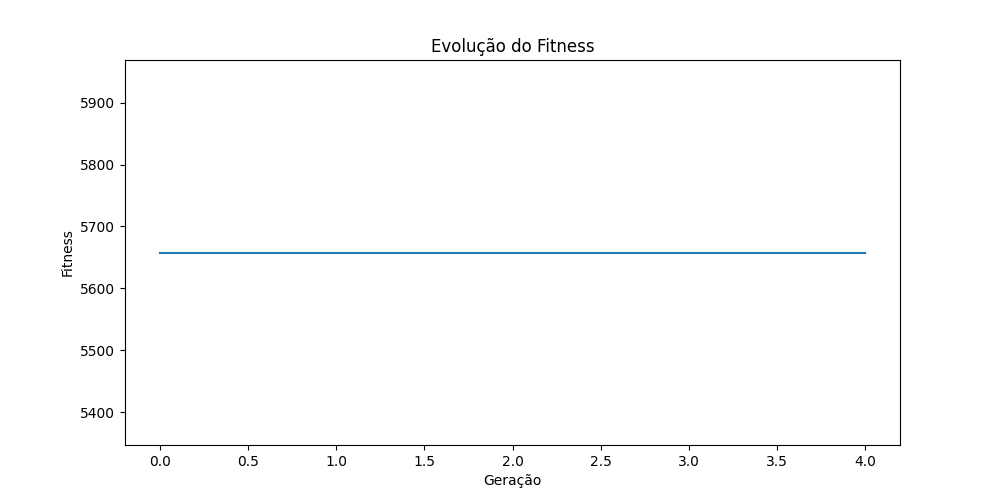
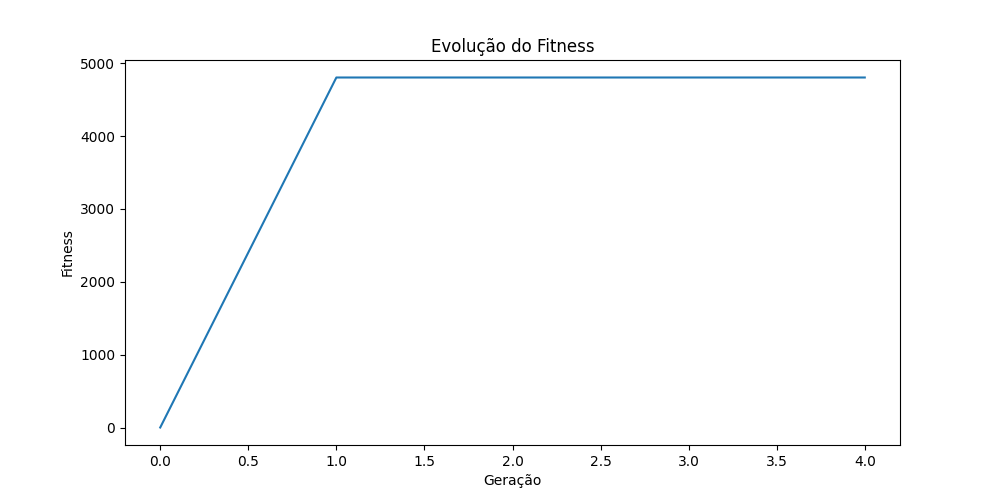
adicionando funções trigonométricas

diff --git a/robo_exercicio.py b/robo_exercicio.py
@@ -546,7 +546,7 @@ class IndividuoPG:
             return self.criar_folha()
         
         # OPERADORES DISPONÍVEIS PARA O ALUNO MODIFICAR
-        operador = random.choice(['+', '-', '*', '/', 'max', 'min', 'abs', 'if_positivo', 'if_negativo'])
+        operador = random.choice(['+', '-', '*', '/', 'max', 'min', 'abs', 'if_positivo', 'if_negativo', 'sin', 'cos', 'sigmoid'])
         if operador in ['+', '-', '*', '/']:
             return {
                 'tipo': 'operador',
@@ -568,13 +568,17 @@ class IndividuoPG:
                 'esquerda': IndividuoPG(self.profundidade - 1).arvore_aceleracao,
                 'direita': None
             }
-        else:  # if_positivo ou if_negativo
+        else:  # if_positivo ou if_negativo, sin, cos, sigmoid
             return {
                 'tipo': 'operador',
                 'operador': operador,
                 'esquerda': IndividuoPG(self.profundidade - 1).arvore_aceleracao,
                 'direita': IndividuoPG(self.profundidade - 1).arvore_aceleracao
             }
+
+    @staticmethod
+    def sigmoid(x):
+        return 1 / (1 + np.exp(-x))
     
     def criar_folha(self):
         # VARIÁVEIS DISPONÍVEIS PARA O ALUNO MODIFICAR
@@ -632,8 +636,14 @@ class IndividuoPG:
             return esquerda / direita if direita != 0 else 0
         elif no['operador'] == 'max':
             return max(esquerda, direita)
-        else:  # min
+        elif no['operador'] == 'min':
             return min(esquerda, direita)
+        elif no['operador'] == 'sin':
+            return np.sin(self.avaliar_no(no['esquerda'], sensores))
+        elif no['operador'] == 'cos':
+            return np.cos(self.avaliar_no(no['esquerda'], sensores))
+        elif no['operador'] == 'sigmoid':
+            return self.sigmoid(self.avaliar_no(no['esquerda'], sensores))
     
     def mutacao(self, probabilidade=0.1):
         # PROBABILIDADE DE MUTAÇÃO PARA O ALUNO MODIFICAR
